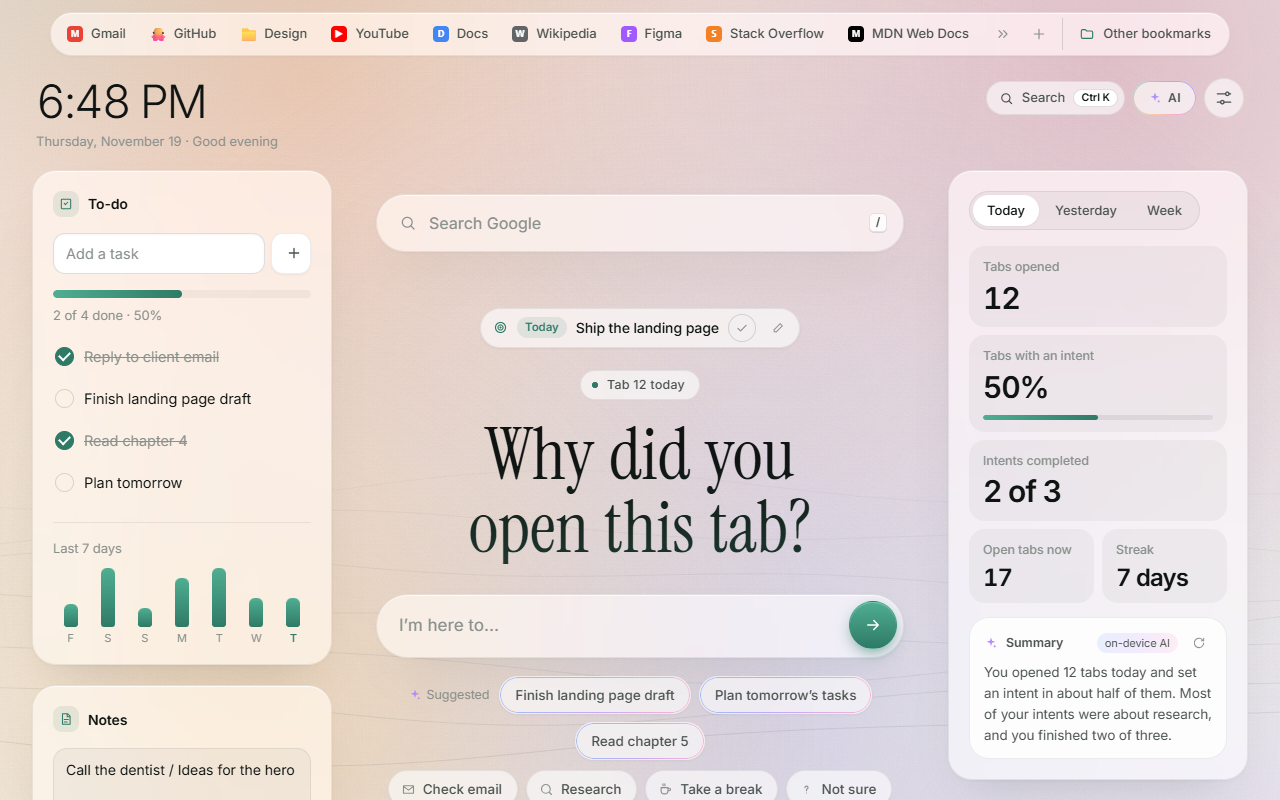
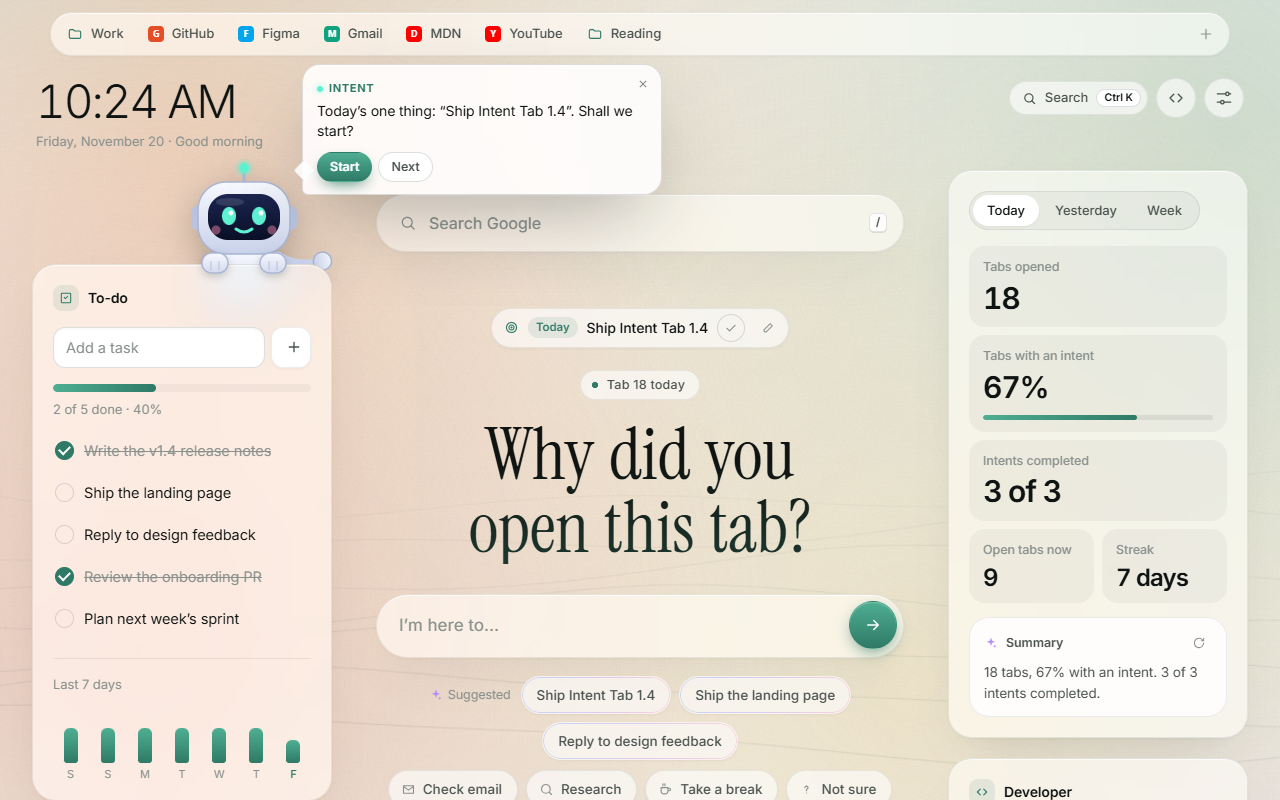
New store screenshots; keep the robot off the clock and bookmarks bar
- Five new 1280x800 screenshots taken from the real page with sample data:
  question (light), Cosmos quiet centre, Ctrl+K, project view, focus mode
- store/brand/shots/: local server + fake chrome.* API to retake them
- Robot: move its column down when it would cover the clock's date line,
  and keep its bubble below the bookmarks bar
- Project view checkboxes now match the round To-do style
- README and store listing point to the new screenshots

diff --git a/store/brand/shots/shim.js b/store/brand/shots/shim.js
@@ -1,0 +1,152 @@
+// Fake chrome.* for screenshots. Scene comes from ?scene=… in the URL.
+(() => {
+  const params = new URLSearchParams(location.search.split('&u=')[0]);
+  const SCENE = location.pathname.includes('blocked') ? 'focus' : (params.get('scene') || 'question');
+
+  // ---- fixed clock: today at 10:24 ----
+  const RealDate = Date;
+  const target = new RealDate(); target.setHours(10, 24, 0, 0);
+  const OFF = target.getTime() - RealDate.now();
+  class FakeDate extends RealDate {
+    constructor(...a) { if (a.length) super(...a); else super(RealDate.now() + OFF); }
+    static now() { return RealDate.now() + OFF; }
+  }
+  window.Date = FakeDate;
+  const now = FakeDate.now();
+  const pad = (n) => String(n).padStart(2, '0');
+  const key = (d) => `${d.getFullYear()}-${pad(d.getMonth() + 1)}-${pad(d.getDate())}`;
+  const ago = (n) => { const d = new FakeDate(); d.setHours(12, 0, 0, 0); d.setDate(d.getDate() - n); return d; };
+  const MIN = 60000;
+
+  const dark = SCENE !== 'question';
+  try { localStorage.setItem('intent-theme', dark ? 'dark' : 'light'); } catch { /* ignore */ }
+
+  // ---- sample data ----
+  const days = {};
+  const week = [[34, 22, 5, 4, 95], [41, 25, 6, 5, 120], [28, 20, 4, 4, 80], [46, 30, 7, 6, 140], [38, 27, 5, 5, 110], [22, 14, 3, 2, 50], [17, 12, 3, 3, 95]];
+  week.forEach(([tabs, intentTabs, set, done, focusMin], i) => {
+    days[key(ago(6 - i))] = { tabs, intentTabs, intentsSet: set, intentsDone: done, todoDone: 3, todoTotal: 5, focusMs: focusMin * MIN, focusSessions: Math.round(focusMin / 25) };
+  });
+  const todayKey = key(new FakeDate());
+  const todos = [
+    { id: 't1', text: 'Write the v1.4 release notes', done: true, createdAt: now - 300 * MIN, doneAt: now - 60 * MIN },
+    { id: 't2', text: 'Ship the landing page', done: false, createdAt: now - 280 * MIN, doneAt: null },
+    { id: 't3', text: 'Reply to design feedback', done: false, createdAt: now - 200 * MIN, doneAt: null },
+    { id: 't4', text: 'Review the onboarding PR', done: true, createdAt: now - 190 * MIN, doneAt: now - 30 * MIN },
+    { id: 't5', text: 'Plan next week’s sprint', done: false, createdAt: now - 100 * MIN, doneAt: null },
+  ];
+  const projects = [
+    { id: 'p1', name: 'Intent Tab', links: [
+      { label: 'Repo', url: 'https://github.com/you/intent-tab' },
+      { label: 'Local', url: 'http://localhost:5173/' },
+      { label: 'Design', url: 'https://www.figma.com/file/intent-tab' },
+      { label: 'Tracker', url: 'https://linear.app/you/intent-tab' },
+      { label: 'Store', url: 'https://chromewebstore.google.com/' },
+    ], tasks: [
+      { id: 'a', text: 'New logo and promo tiles', done: true },
+      { id: 'b', text: 'Projects: tasks and progress', done: true },
+      { id: 'c', text: 'Focus time in the quiet centre', done: true },
+      { id: 'd', text: 'Fresh store screenshots', done: false },
+      { id: 'e', text: 'Submit v1.4 to the Web Store', done: false },
+    ] },
+    { id: 'p2', name: 'Portfolio site', links: [
+      { label: 'Repo', url: 'https://github.com/you/portfolio' },
+      { label: 'Production', url: 'https://vercel.com/you/portfolio' },
+    ], tasks: [
+      { id: 'f', text: 'Case study: Intent Tab', done: false },
+      { id: 'g', text: 'Dark mode', done: true },
+    ] },
+    { id: 'p3', name: 'Client: Bloom Café', links: [
+      { label: 'Staging', url: 'https://staging.bloomcafe.com/' },
+      { label: 'Design', url: 'https://www.figma.com/file/bloom' },
+    ], tasks: [] },
+  ];
+  const settings = {
+    theme: dark ? 'dark' : 'light', lang: 'en', background: SCENE === 'question' ? 'animated' : 'cosmos',
+    askMode: SCENE === 'question' ? 'always' : 'off', ai: false, accent: 'sage',
+    modules: { todo: true, notes: true, bookmarks: true, topSites: true, report: true, dev: true, robot: true },
+  };
+  const running = { text: 'Ship the landing page', startedAt: now - 9 * MIN, endsAt: now + 16 * MIN };
+  const store = {
+    settings, todos, days, projects,
+    ui: { onboarded: true, bmTipDismissed: true, footerTipDismissed: true, worldV14: true },
+    ask: {},
+    focus: { day: todayKey, text: 'Ship Intent Tab 1.4', done: false },
+    notes: { text: 'Release checklist:\n– bump version\n– new screenshots\n– zip + upload', updatedAt: now },
+    history: [
+      { text: 'Ship the landing page', at: now - 200 * MIN, done: true },
+      { text: 'Check email', at: now - 120 * MIN, done: true },
+      { text: 'Research icon styles', at: now - 80 * MIN, done: true },
+    ],
+    intent: SCENE === 'focus' ? running : null,
+  };
+
+  // ---- chrome.storage ----
+  const listeners = [];
+  const clone = (v) => (v === undefined ? v : JSON.parse(JSON.stringify(v)));
+  const local = {
+    async get(keys) {
+      if (keys == null) return clone(store);
+      const list = typeof keys === 'string' ? [keys] : Array.isArray(keys) ? keys : Object.keys(keys);
+      const out = {};
+      for (const k of list) if (k in store) out[k] = clone(store[k]);
+      return out;
+    },
+    async set(obj) {
+      const changes = {};
+      for (const [k, v] of Object.entries(obj)) { changes[k] = { oldValue: clone(store[k]), newValue: clone(v) }; store[k] = clone(v); }
+      setTimeout(() => listeners.forEach((fn) => fn(changes, 'local')), 0);
+    },
+    async remove(keys) { [].concat(keys).forEach((k) => delete store[k]); },
+    async clear() {},
+  };
+
+  // ---- bookmarks ----
+  const bm = (id, title, url) => ({ id, title, url, parentId: '1' });
+  const tree = [{ id: '0', title: '', children: [
+    { id: '1', title: 'Bookmarks bar', children: [
+      { id: '10', title: 'Work', parentId: '1', children: [bm('11', 'Linear', 'https://linear.app/'), bm('12', 'Notion', 'https://www.notion.so/')] },
+      bm('20', 'GitHub', 'https://github.com/'),
+      bm('21', 'Figma', 'https://www.figma.com/'),
+      bm('22', 'Gmail', 'https://mail.google.com/'),
+      bm('23', 'MDN', 'https://developer.mozilla.org/'),
+      bm('24', 'YouTube', 'https://www.youtube.com/'),
+      { id: '30', title: 'Reading', parentId: '1', children: [bm('31', 'Smashing', 'https://www.smashingmagazine.com/')] },
+    ] },
+    { id: '2', title: 'Other bookmarks', children: [] },
+  ] }];
+  const find = (id, nodes = tree) => { for (const n of nodes) { if (n.id === id) return n; const f = n.children && find(id, n.children); if (f) return f; } return null; };
+
+  const noop = async () => {};
+  const evt = () => ({ addListener() {}, removeListener() {} });
+  window.chrome = {
+    storage: { local, sync: { get: async () => ({}), set: noop }, onChanged: { addListener: (fn) => listeners.push(fn), removeListener() {} } },
+    bookmarks: {
+      getTree: async () => clone(tree), getSubTree: async (id) => [clone(find(id))], get: async (id) => [clone(find(id))],
+      search: async () => [], create: noop, update: noop, remove: noop, removeTree: noop, move: noop,
+      onCreated: evt(), onRemoved: evt(), onChanged: evt(), onMoved: evt(), onChildrenReordered: evt(), onImportEnded: evt(),
+    },
+    topSites: { get: async () => [
+      ['GitHub', 'https://github.com/'], ['Gmail', 'https://mail.google.com/'], ['YouTube', 'https://www.youtube.com/'],
+      ['Figma', 'https://www.figma.com/'], ['Linear', 'https://linear.app/'], ['Stack Overflow', 'https://stackoverflow.com/'],
+      ['ChatGPT', 'https://chatgpt.com/'], ['MDN', 'https://developer.mozilla.org/'],
+    ].map(([title, url]) => ({ title, url })) },
+    tabs: { query: async () => new Array(9).fill({}), create: noop, update: noop, getCurrent: async () => null, onCreated: evt(), onRemoved: evt() },
+    windows: { create: noop },
+    runtime: { getURL: (p) => location.origin + (p.startsWith('/') ? p : '/' + p), getManifest: () => (__MANIFEST__), id: 'intent-tab', onMessage: evt(), sendMessage: noop },
+    permissions: { request: async () => true, remove: async () => true, contains: async () => true },
+    alarms: { create: noop, clear: noop, onAlarm: evt() },
+  };
+
+  // Freeze entrance animations in their final state for clean screenshots.
+  document.addEventListener('DOMContentLoaded', () => {
+    const st = document.createElement('style');
+    st.textContent = '*,*::before,*::after{animation:none!important;transition:none!important}';
+    document.head.append(st);
+  });
+
+  // ---- scene actions (after the page has booted) ----
+  const after = (ms, fn) => window.addEventListener('load', () => setTimeout(fn, ms));
+  if (SCENE === 'palette') after(1600, async () => (await import('/js/palette.js')).openPalette('intent'));
+  if (SCENE === 'project') after(1600, async () => (await import('/js/projects.js')).openProject('p1'));
+})();

diff --git a/js/robot.js b/js/robot.js
@@ -88,15 +88,28 @@ function pickAnchor() {
   return ids.map($).find((el) => el && !el.hidden && el.offsetParent !== null) || null;
 }
 
-function place() {
+function place(depth = 0) {
   anchor = enabled ? pickAnchor() : null;
   const show = !!anchor;
   [robot, hands, bubble].forEach((el) => el.classList.toggle('is-gone', !show));
   // The column the robot sits on gets a little headroom, so the robot never covers the clock.
-  document.querySelectorAll('.tabi-col').forEach((col) => { if (!anchor || col !== anchor.parentElement) col.classList.remove('tabi-col'); });
+  document.querySelectorAll('.tabi-col').forEach((col) => { if (!anchor || col !== anchor.parentElement) { col.classList.remove('tabi-col'); col.style.paddingTop = ''; } });
   if (!show) return;
   anchor.parentElement.classList.add('tabi-col');
   const r = anchor.getBoundingClientRect();
+  // On shorter/narrower windows the robot could still cover the clock's date line:
+  // push the column down just enough (only grows; reset on window resize).
+  const clock = document.querySelector('.clock');
+  if (clock && depth < 2) {
+    const c = clock.getBoundingClientRect();
+    const left = r.right - 158;
+    const need = c.bottom + 8 - (r.top - 104);
+    if (need > 0.5 && left < c.right && left + 140 > c.left) {
+      const col = anchor.parentElement;
+      col.style.paddingTop = (parseFloat(getComputedStyle(col).paddingTop) + need) + 'px';
+      return place(depth + 1);
+    }
+  }
   const x = r.right + window.scrollX - 158;
   const y = r.top + window.scrollY;
   robot.style.left = x + 'px';
@@ -107,13 +120,16 @@ function place() {
   bubble.style.left = (x + 128) + 'px';
   bubble.style.maxWidth = Math.max(180, Math.min(360, window.innerWidth - (x + 128) - 16)) + 'px';
   // Sit above the search bar, never on top of it.
+  // ...and below the bookmarks bar, never over it.
+  const bar = $('bookmarksModule');
+  const floor = bar && !bar.hidden ? bar.getBoundingClientRect().bottom + window.scrollY + 8 : 8;
   const search = $('searchForm').getBoundingClientRect();
   const limit = search.top + window.scrollY - bubble.offsetHeight - 12;
-  bubble.style.top = Math.max(8, Math.min(y - 150, limit)) + 'px';
+  bubble.style.top = Math.max(floor, Math.min(y - 150, limit)) + 'px';
   if (x + 128 + 180 > window.innerWidth) {
     // No room on the right: put the bubble above-left instead.
     bubble.style.left = Math.max(8, x - 150) + 'px';
-    bubble.style.top = Math.max(8, y - 190) + 'px';
+    bubble.style.top = Math.max(floor, y - 190) + 'px';
     bubble.classList.add('is-above');
   } else {
     bubble.classList.remove('is-above');
@@ -290,11 +306,14 @@ export async function initRobot(on = true) {
   await refresh();
 
   // The robot is positioned in page coordinates, so scrolling never needs a re-place.
-  const placeSoon = perFrame(place);
+  const placeSoon = perFrame(() => place()); // never pass event args as "depth"
   window.addEventListener('pointermove', perFrame(lookAt), { passive: true });
-  window.addEventListener('resize', placeSoon);
+  window.addEventListener('resize', () => {
+    document.querySelectorAll('.tabi-col').forEach((col) => { col.style.paddingTop = ''; });
+    placeSoon();
+  });
   new ResizeObserver(placeSoon).observe(document.querySelector('.layout'));
-  document.addEventListener('intent:settings', () => setTimeout(place, 50));
+  document.addEventListener('intent:settings', () => setTimeout(() => place(), 50));
   document.addEventListener('intent:lang', () => { robot.title = t('tabiLabel'); refresh(); });
   chrome.storage.onChanged.addListener(async (c, area) => {
     if (area !== 'local' || !(c.todos || c.focus || c.intent)) return;

diff --git a/css/newtab.css b/css/newtab.css
@@ -2110,7 +2110,23 @@ input[type="text"], input[type="search"], input[type="time"] {
 .pv-task:hover { background: var(--surface-solid); }
 .pv-task label { flex: 1; min-width: 0; display: flex; align-items: center; gap: 10px; cursor: pointer; font-size: 14px; }
 .pv-task label span { overflow-wrap: anywhere; }
-.pv-task input[type="checkbox"] { width: 18px; height: 18px; border-radius: 50%; flex: none; accent-color: var(--accent); }
+/* same round check as the To-do list */
+.pv-task input[type="checkbox"] {
+  appearance: none; -webkit-appearance: none;
+  width: 19px; height: 19px; flex: none; margin: 0;
+  border: 1.5px solid var(--border-strong); border-radius: 50%;
+  display: grid; place-items: center; cursor: pointer;
+  transition: background .2s, border-color .2s;
+}
+.pv-task input[type="checkbox"]::after {
+  content: ""; width: 9px; height: 5px;
+  border: 2px solid var(--accent-ink); border-top: 0; border-right: 0;
+  transform: rotate(-45deg) translate(1px, -1px) scale(0);
+  transition: transform .2s var(--ease);
+}
+.pv-task input[type="checkbox"]:checked { background: var(--accent); border-color: var(--accent); }
+.pv-task input[type="checkbox"]:checked::after { transform: rotate(-45deg) translate(1px, -1px) scale(1); }
+.pv-task input[type="checkbox"]:focus-visible { outline: 2px solid var(--focus); outline-offset: 2px; }
 .pv-task.is-done label span { color: var(--muted); text-decoration: line-through; }
 .pv-task .proj-x { opacity: 0; transition: opacity .15s; }
 .pv-task:hover .proj-x, .pv-task .proj-x:focus-visible { opacity: 1; }

diff --git a/README.md b/README.md
@@ -33,10 +33,10 @@ Most tabs are opened out of habit. Intent Tab asks you why you opened each one, 
 
 | | |
 |:---:|:---:|
-| <img src="store/screenshots/1-intent-light.png" alt="The intent question in light mode"> | <img src="store/screenshots/2-ai-coach-dark.png" alt="The AI coach in dark mode"> |
-| **The question:** set an intent in one click | **AI coach:** a clear goal, a timer and tiny steps |
-| <img src="store/screenshots/3-command-palette.png" alt="The command palette"> | <img src="store/screenshots/4-breathing-week.png" alt="A breathing break and the weekly report"> |
-| **Ctrl+K:** do anything from the keyboard | **Breaks and report:** breathing, plus a week in review |
+| <img src="store/screenshots/1-intent-light.png" alt="The intent question in light mode"> | <img src="store/screenshots/2-cosmos-dark.png" alt="The quiet centre with the Cosmos background and the robot"> |
+| **The question:** set an intent in one click | **Cosmos:** next task, focus time and Intent the robot |
+| <img src="store/screenshots/3-command-palette.png" alt="The command palette"> | <img src="store/screenshots/4-project-view.png" alt="A project with its tasks, progress and links"> |
+| **Ctrl+K:** do anything from the keyboard | **Projects:** tasks, progress and links in one popup |
 
 <p align="center"><img src="store/screenshots/5-focus-mode.png" alt="Focus mode page" width="70%"><br><b>Focus mode:</b> distracting sites can wait while an intent runs</p>
 

diff --git a/store/listing.md b/store/listing.md
@@ -88,9 +88,9 @@ Intent Tab replaces the new tab page with a calm start page that helps people op
 
 ## Store graphics (in this folder)
 - `screenshots/1-intent-light.png` (1280×800)
-- `screenshots/2-ai-coach-dark.png` (1280×800)
+- `screenshots/2-cosmos-dark.png` (1280×800)
 - `screenshots/3-command-palette.png` (1280×800)
-- `screenshots/4-breathing-week.png` (1280×800)
+- `screenshots/4-project-view.png` (1280×800)
 - `screenshots/5-focus-mode.png` (1280×800)
 - `promo-small-440x280.png`: small promo tile
 - `promo-marquee-1400x560.png`: marquee promo tile
